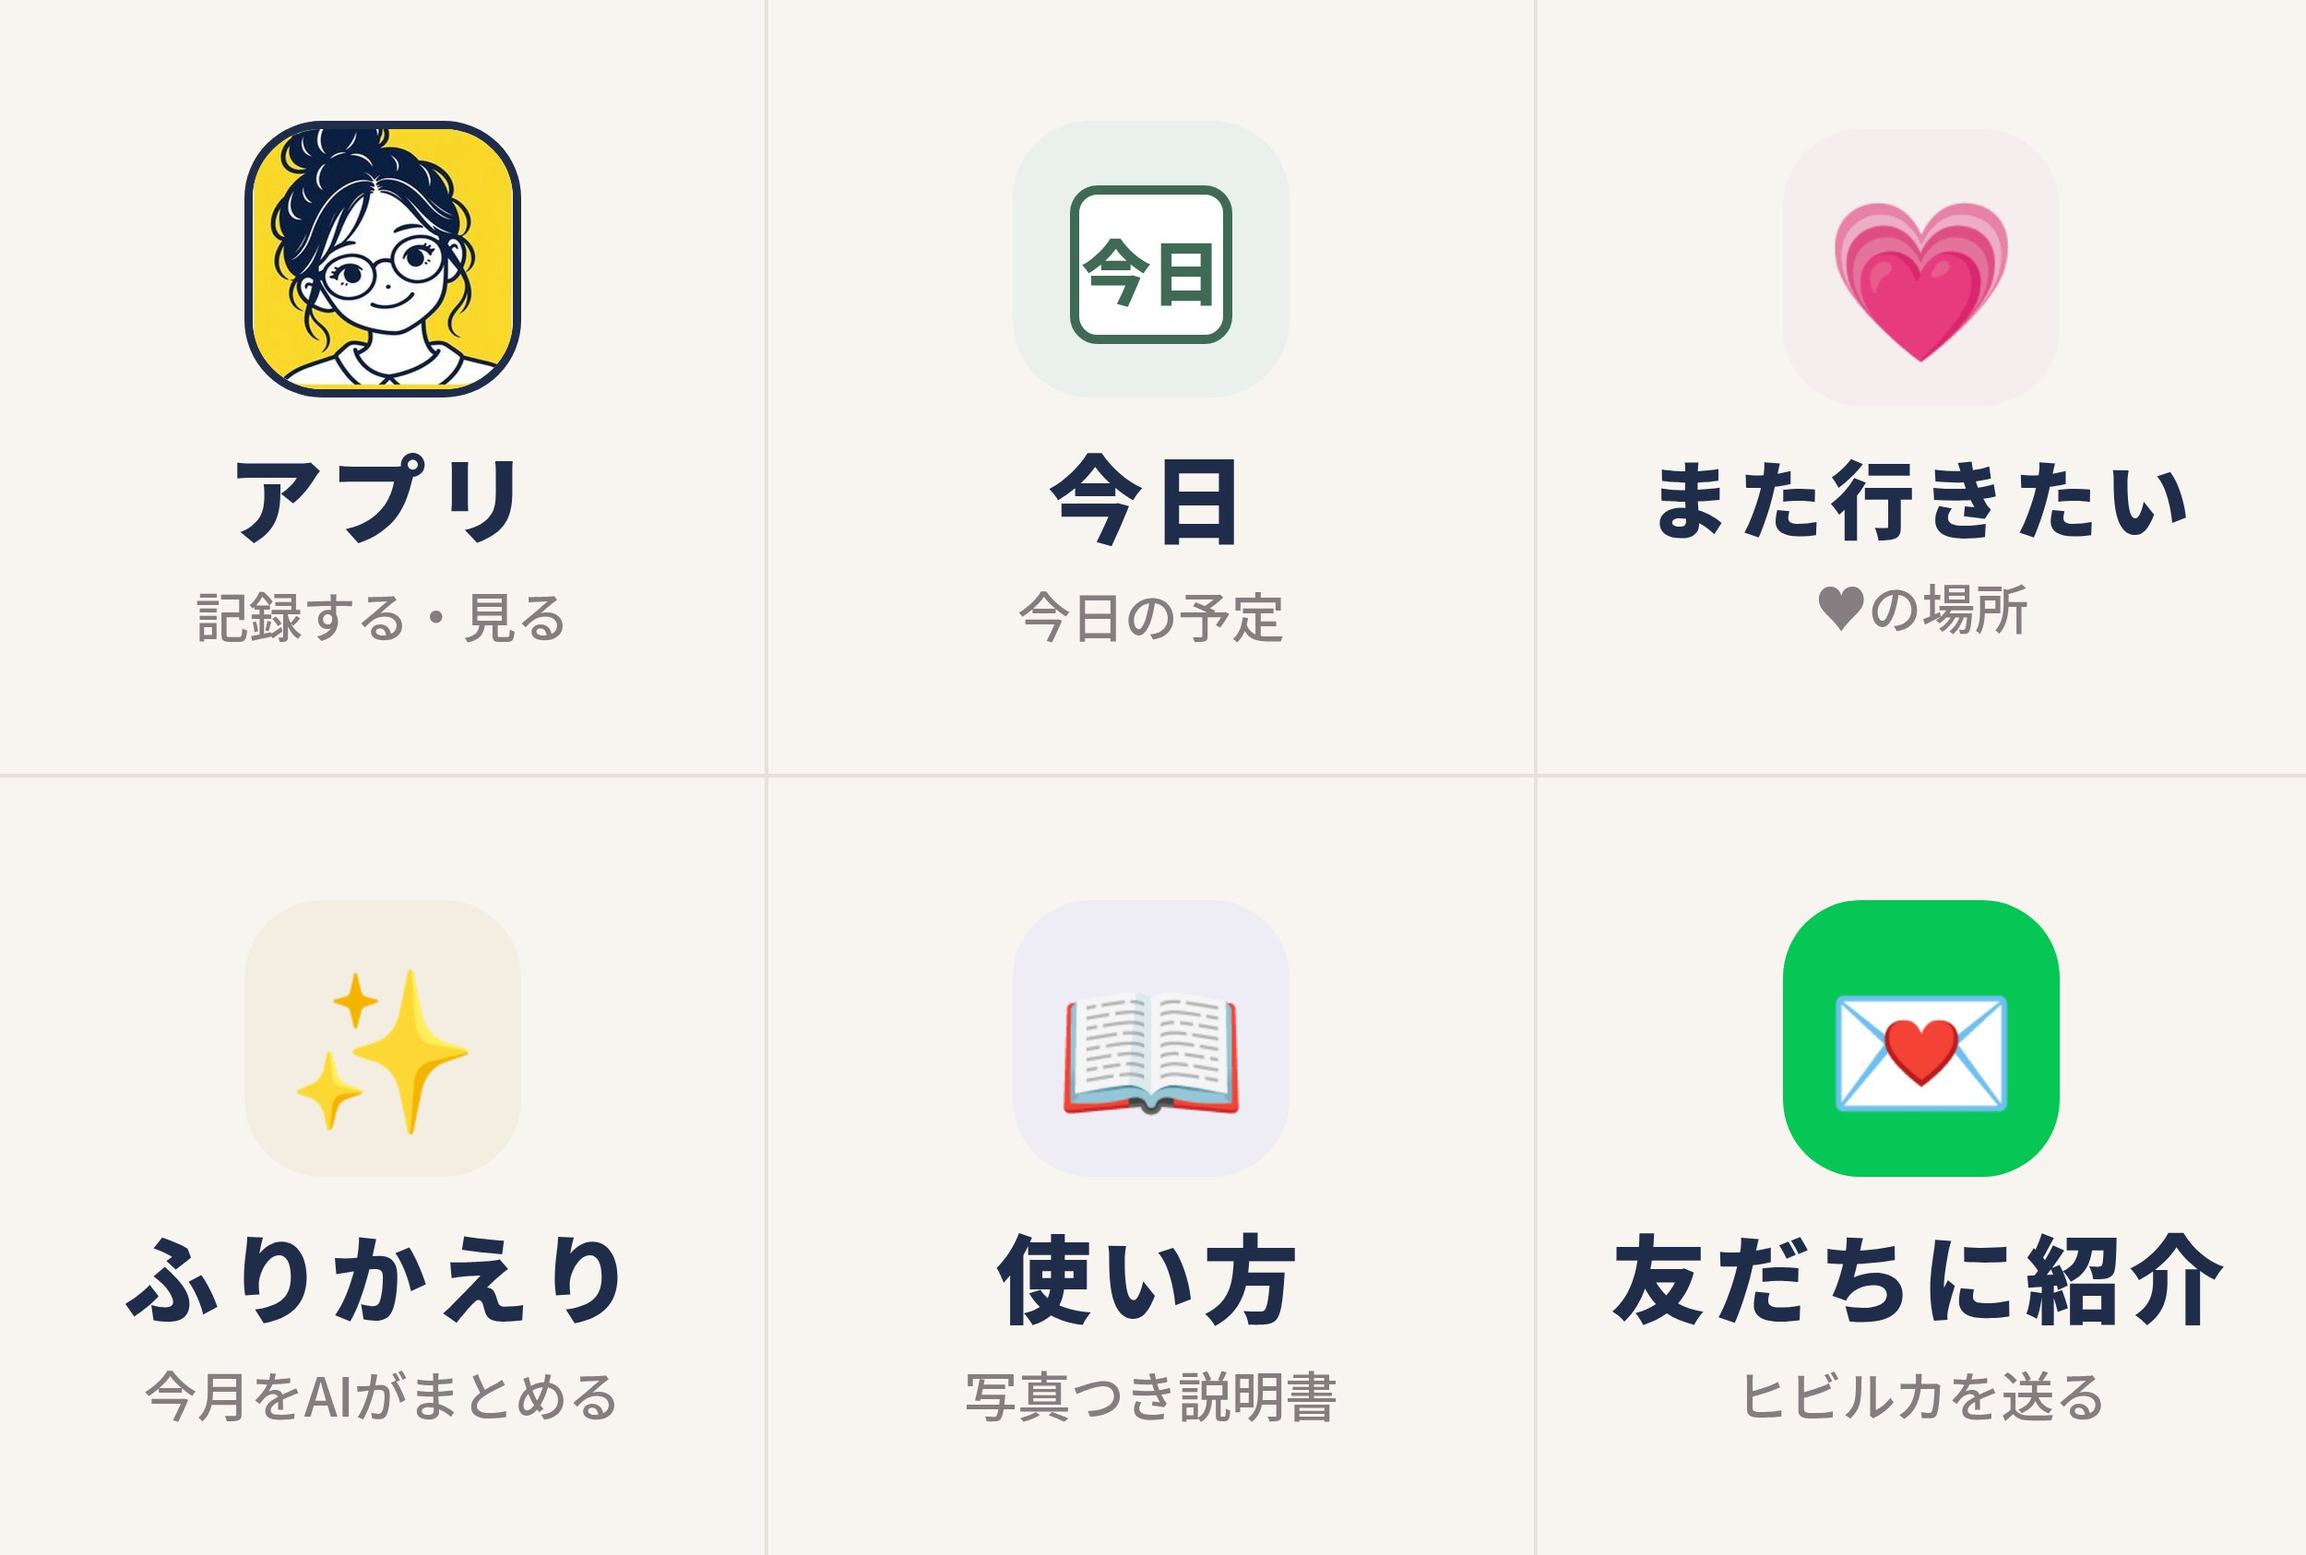
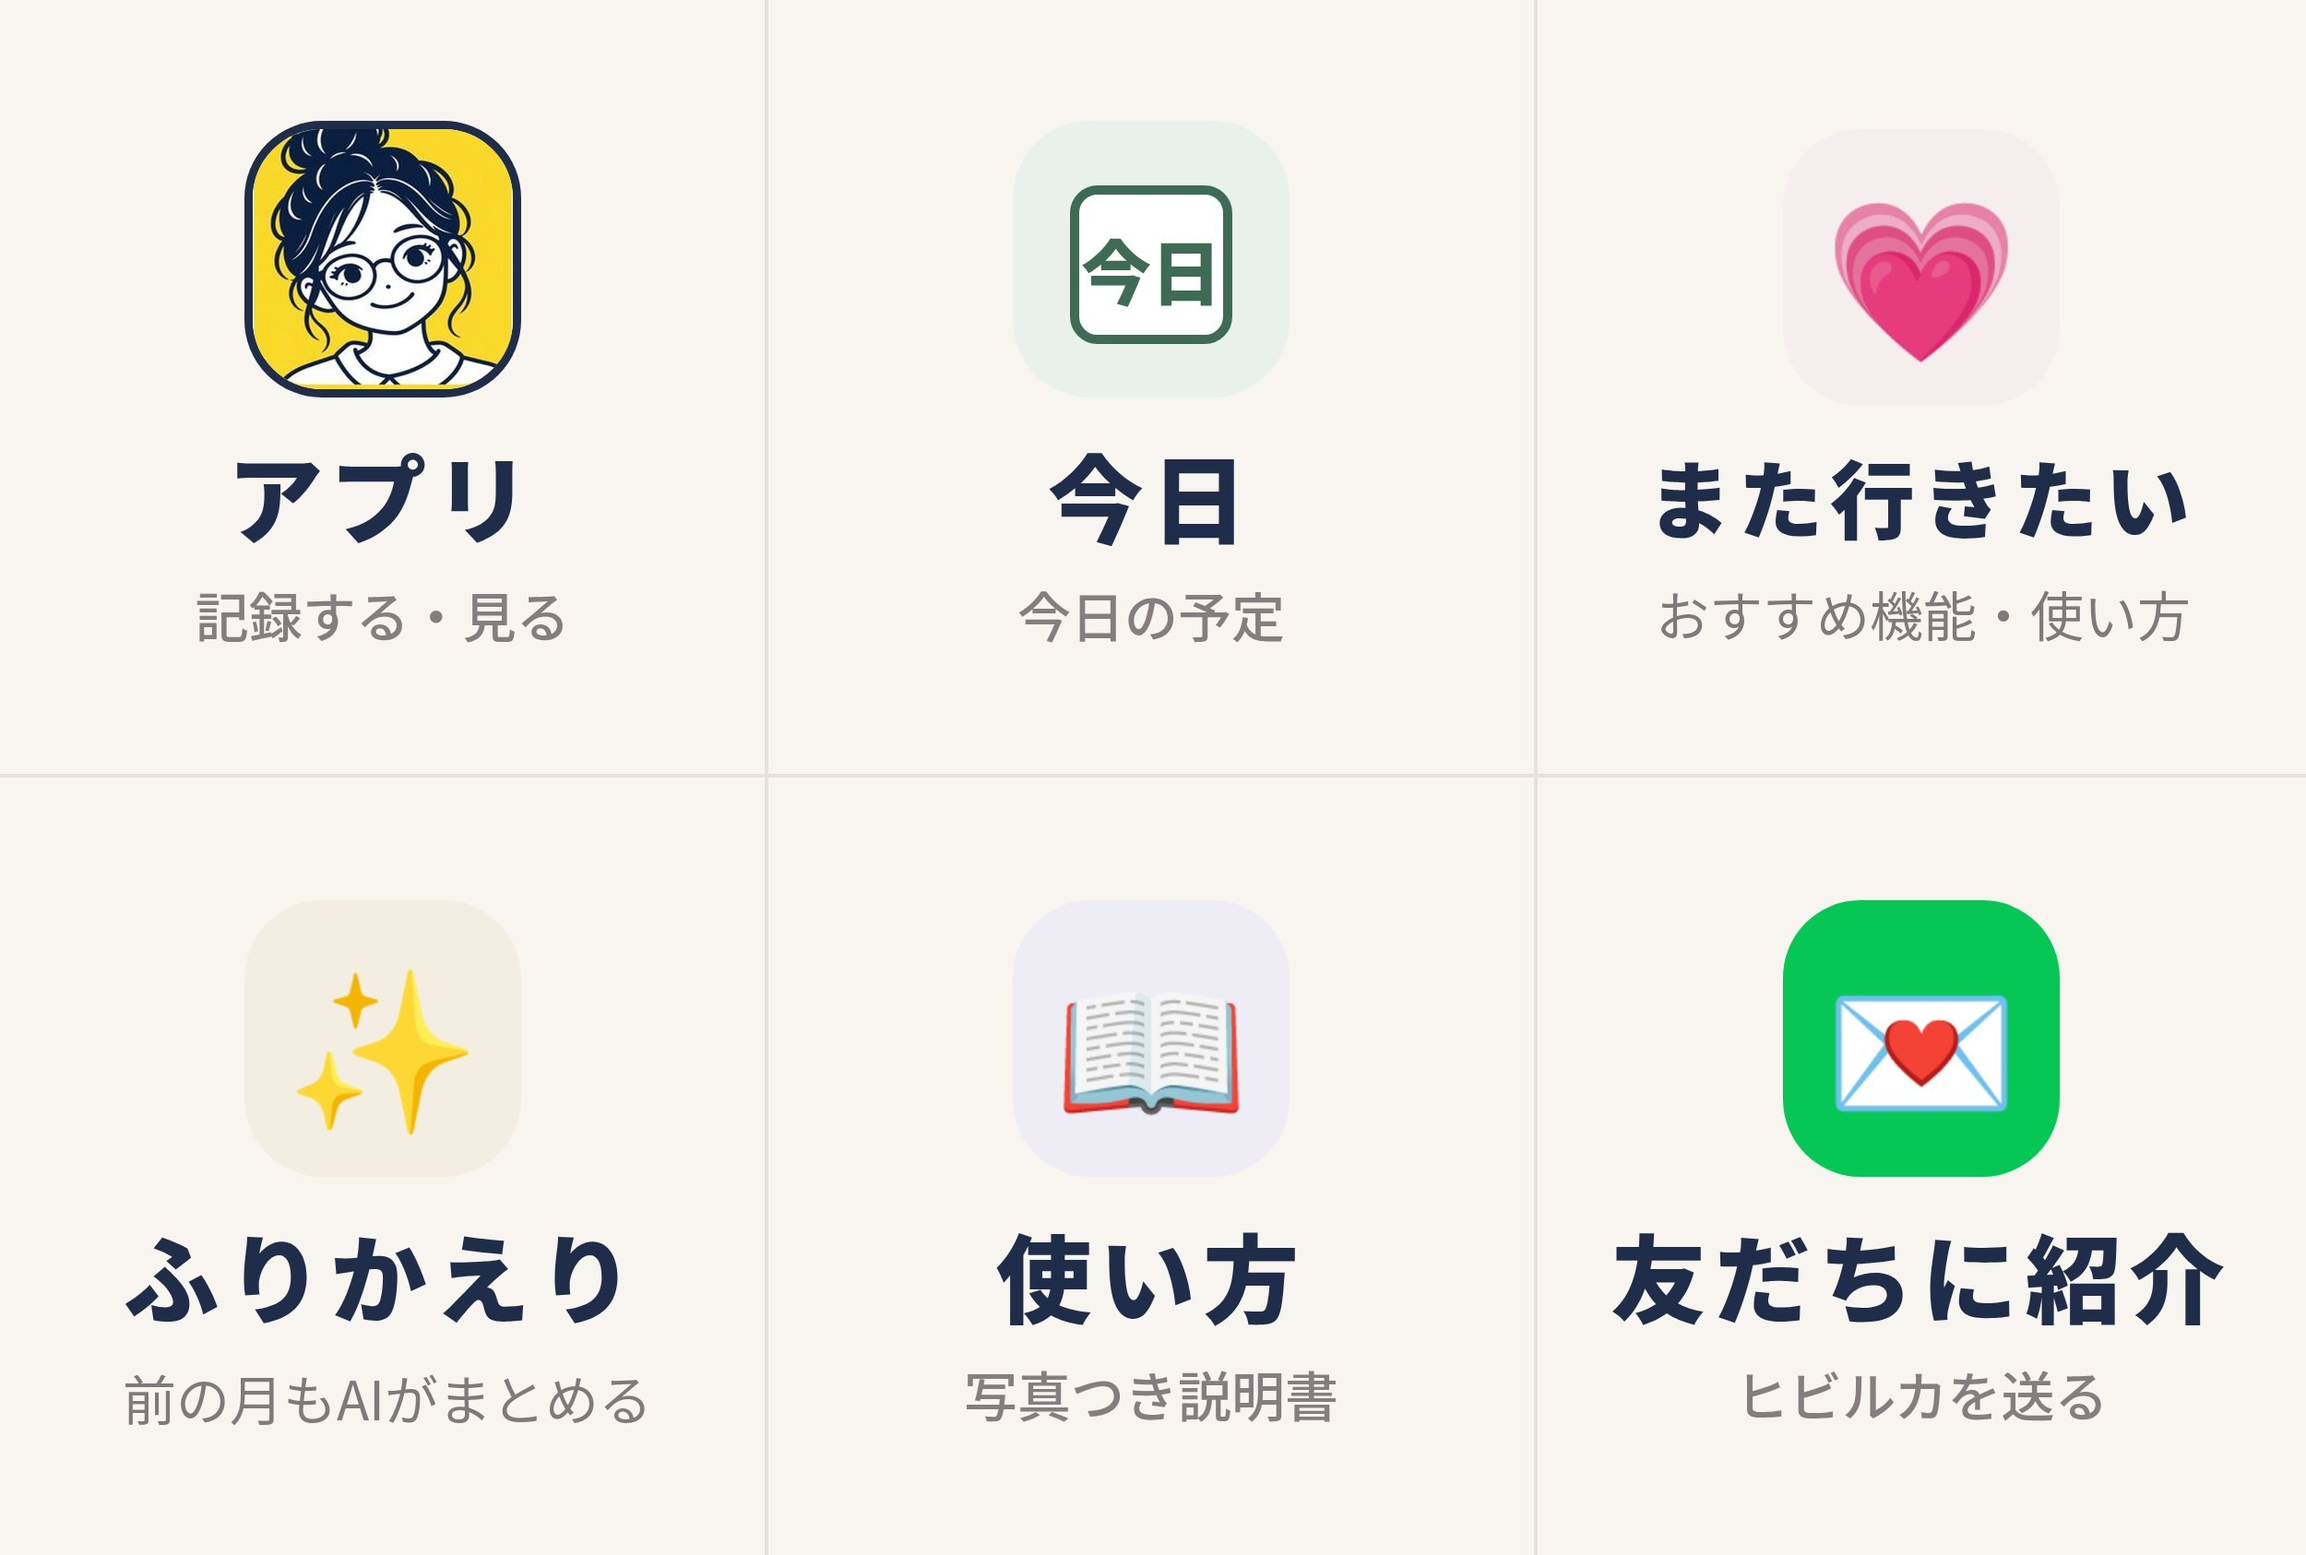
LINE「また行きたい」はおすすめ機能の説明→ボタンで自分の場所。メニューの文字を「おすすめ機能・使い方」「前の月もAIがまとめる」に
Claude-Session: https://claude.ai/code/session_0147pQxjXuJkSJfcwspEnXLT

Changed region(s): [[0.0624, 0.8636, 0.2808, 0.9253], [0.7176, 0.3701, 0.936, 0.4318]]

diff --git a/guide/index.html b/guide/index.html
@@ -299,7 +299,7 @@
         <h3 style="margin-top:14px"><span class="n">4</span>下のメニューから</h3>
         <ul>
           <li><b>今日</b> → 今日の予定と記録、<b>これからの予定（明日・あと◯日）</b></li>
-          <li><b>また行きたい</b> → 行きたいリストと♥の場所が、写真つきのカードで。「地図で見る」「アプリで予定にする」ボタン付き</li>
+          <li><b>また行きたい</b> → おすすめ機能（行きたいリスト・おでかけコース・天気）の説明が写真つきで。下の <b>♥ わたしの場所を見る</b> で、集めた場所が「地図で見る」「アプリで予定にする」ボタン付きのカードで届きます（「行きたいリスト」と送ってもOK）</li>
           <li><b>ふりかえり</b> → 今月の思い出をAIがまとめて返事。<b>「先月」「8月のふりかえり」「2025年12月」</b>のように前の月も。返事の下のボタンでさらに前の月へ</li>
           <li><b>友だちに紹介</b> → ヒビルカのLINEを友だちに送れる</li>
         </ul>
@@ -420,7 +420,7 @@
         <p>探した場所の <span class="btnlike rose">📌 ここ行きたい！</span> を押すと、「探す」ページの下の <b>行きたいリスト</b> に入ります。予定に入れると「予定あり」、その日が過ぎると「行った」になり、<span class="btnlike">📝 思い出を残す</span> がすぐ押せます。</p>
         <h3><span class="n">2</span>♥ また行きたい</h3>
         <p>行ってよかった思い出には ♥ を。思い出のページの「また行きたい」に集まります。</p>
-        <div class="tip"><b>LINEでも</b>　LINEで「<b>また行きたい</b>」と送ると、行きたいリストと♥の場所が写真つきのカードで届きます。地図もすぐ開けます。</div>
+        <div class="tip"><b>LINEでも</b>　LINEで「<b>行きたいリスト</b>」と送ると（メニューの「また行きたい」→「♥ わたしの場所を見る」でも）、行きたいリストと♥の場所が写真つきのカードで届きます。地図もすぐ開けます。</div>
       </div>
       <div class="phones"><figure class="phone"><div class="frame"><img src="img/19-wishlist.jpg" alt="行きたいリスト" loading="lazy"></div><figcaption>行きたいリスト</figcaption></figure></div>
     </div>
